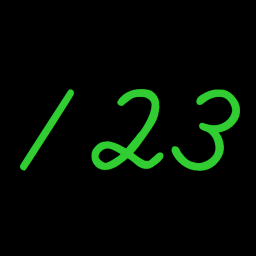
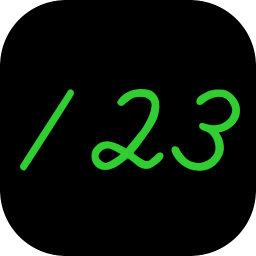
change: マニフェストファイル関連の変更
* メタタグを追加
  * テーマカラー
  * 説明
* アップルタッチアイコンを追加
* マスカブルアイコンを追加
* アイコンを角丸に変更

diff --git a/src/index.html b/src/index.html
@@ -4,6 +4,9 @@
     <meta charset="UTF-8">
     <title>Flash Anzan</title>
     <meta name="viewport" content="width=device-width,initial-scale=1.0,minimum-scale=1.0,user-scalable=no">
+    <meta name="description" content="フラッシュ暗算">
+    <meta name="theme-color" content="limegreen">
+    <link rel="apple-touch-icon" sizes="180x180" href="apple-touch-icon.png">
     <link rel="shortcut icon" href="image/favicon.ico">
     <link href="assets/bootstrap@5.0.0-beta1.css" rel="stylesheet">
     <link rel="stylesheet" href="https://cdn.jsdelivr.net/npm/bootstrap-icons@1.4.1/font/bootstrap-icons.css">
